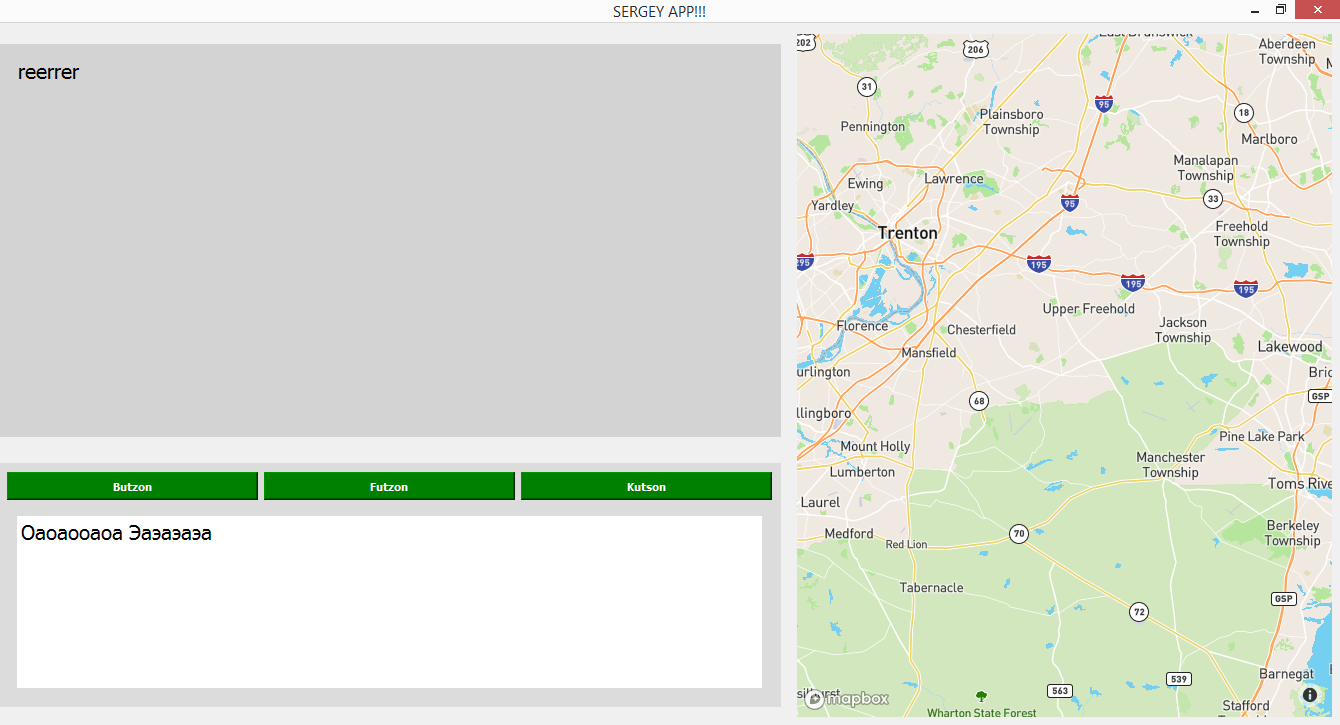
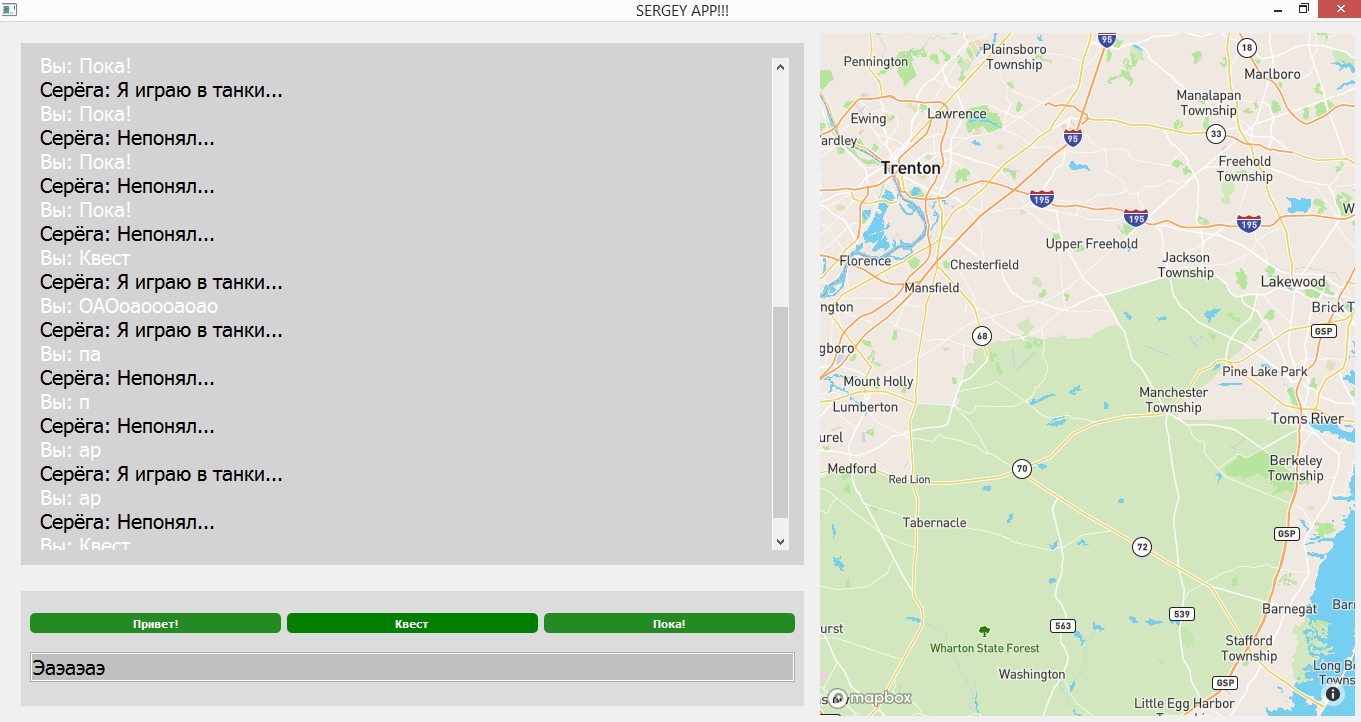
Обновление GUI

diff --git a/src/main.py b/src/main.py
@@ -1,12 +1,14 @@
 # TODO: add app icon
 
-from PyQt5.QtWidgets import QApplication, QWidget, QGridLayout, QHBoxLayout, QPushButton, QLabel, QFrame, QTextEdit, QPlainTextEdit, QSpacerItem
+from PyQt5.QtWidgets import QApplication, QWidget, QGridLayout, QHBoxLayout, QVBoxLayout, QPushButton, QLabel, QFrame, QTextEdit, QPlainTextEdit, QLineEdit, QSpacerItem, QSizePolicy
 from PyQt5.QtWebEngineWidgets import QWebEngineView, QWebEngineSettings
-from PyQt5.QtGui import QIcon
+from PyQt5.QtGui import QIcon, QColor, QTextCursor
 from PyQt5.QtCore import QUrl, QRect, QPoint, QSize, Qt
 #import PyQt5
 import os
-import re
+import random
+import time
+import threading
 #import output
 
 class SergeyBot:
@@ -14,20 +16,31 @@ class SergeyBot:
     ("понимание" ввода пользователя можно было сделать с помощью
     функций, ну да ладна...)"""
     def __init__(self):
+        self.is_answering = False
         self.quest_questions = ("")
         self.greeting_questions = ("привет", "здравствуй")
         self.all_questions = (self.quest_questions)
         self.default_answers = ("Непонял...", "Я играю в танки...")
     
     def answer(self, question : str):
-        for question_type in self.all_questions:
-            pass
-    
+        return random.choice(self.default_answers)
+
+class Chat(QTextEdit):
+    def __init__(self, str, parent=None):
+        super().__init__(str, parent)
+        self.setReadOnly(True)
+
+
 
 class InputButton(QPushButton):
-    def __init__(self, str, parent=None):
-        super().__init__(str, parent=parent)
-        self.clicked.connect(lambda: print(self.text()))
+    def __init__(self, s, parent, mainApp):
+        super().__init__(s, parent=parent)
+        self.s = s
+        self.mainApp = mainApp
+        def clik():
+            self.mainApp.inputbox.setText(self.s)
+            self.mainApp.sendMsg()
+        self.clicked.connect(clik)
 
 
 class SergeyApp(QWidget):
@@ -35,8 +48,37 @@ class SergeyApp(QWidget):
     Тут располагаются все виджеты(кнопки, поля ввода и др.)"""
     def __init__(self):
         super().__init__()
+        self.bot = SergeyBot()
         self.initUI()
     
+    def sendMsg(self):
+        txt = self.inputbox.text()
+        self.inputbox.clear()
+        if txt != "" and not self.bot.is_answering:
+            self.chat.setTextColor(Qt.white)
+            self.chat.append("Вы: " + txt)
+            self.chat.setTextColor(Qt.black)
+            self.chat.insertPlainText("\nСерёга: " + self.bot.answer(txt))
+            """
+            def async_answer():
+                print("START_ASYNC")
+                self.bot.is_answering = True
+                # Анимация
+                for i in range(3):
+                    print("{")
+                    self.chat.insertPlainText(".")
+                    time.sleep(0.5)
+                    print("}")
+                self.bot.is_answering = False
+                print("END_ASYNC")
+            threading.Thread(target=async_answer).start()"""
+            """# Очистить точки от анимации
+            print("Fff")
+            self.chat.setPlainText("")
+            print('fgdfg')
+            self.chat.insertPlainText(self.bot.answer(txt))
+            self.bot.is_answering = False"""
+
     def initUI(self):
         """Функция инициализации всех виджетов
         (вызывать её не надо)"""
@@ -62,22 +104,23 @@ class SergeyApp(QWidget):
         file_path = os.path.abspath(os.path.join(os.path.dirname(__file__), "map2.html"))
         web.load(QUrl.fromLocalFile(file_path))
 
-        frame = QFrame(self)
-        frame.setFrameStyle(QFrame.Box)
+        input_frame = QFrame(self)
+        input_frame.setFrameStyle(QFrame.Box)
 
-        inputgrid = QGridLayout(frame)
+        inputgrid = QGridLayout(input_frame)
         
-        inputButtonTexts = ["Butzon", "Futzon", "Kutson"]
+        inputButtonTexts = ["Привет!", "Квест", "Пока!"]
         buttons = []
         for i in range(len(inputButtonTexts)):
-            buttons.append(InputButton(inputButtonTexts[i], frame))
+            buttons.append(InputButton(inputButtonTexts[i], input_frame, self))
             inputgrid.addWidget(buttons[i], 0, i, 1, 1)
-        self.inputbox = QPlainTextEdit("", frame)
-        inputgrid.addWidget(self.inputbox, 1, 0, 1, len(buttons))
-        self.inputbox.setPlainText("")
+        
+        self.inputbox = QLineEdit(input_frame)
+        self.inputbox.returnPressed.connect(self.sendMsg)
+        inputgrid.addWidget(self.inputbox, 1, 0, 1, -1)
 
-        lbl = QLabel("reerrer", self)
-        lbl.setWordWrap(True)
+        self.chat = Chat("")
+        
         
         # QGridLayout - один из макетных классов, которые помогает управлять
         # положением виджетов. Этот класс управляет положениями виджетов
@@ -95,9 +138,9 @@ class SergeyApp(QWidget):
 
 
         # Добавляем все наши виджеты (кнопки, веб страницы и т.д.)
-        main_layout.addWidget(lbl,   0,  0,   70,   60)
-        main_layout.addWidget(frame, 70, 0,   30,   60)
-        main_layout.addWidget(web,   0,  60,  100,  40)
+        main_layout.addWidget(self.chat,   0, 0,  80, 60)
+        main_layout.addWidget(input_frame,  80, 0,  20, 60)
+        main_layout.addWidget(web,          0, 60,  100, 40)
 
         #self.main_layout.setColumnStretch(0, 2)
         #self.main_layout.setColumnStretch(1, 1)
@@ -123,15 +166,28 @@ if __name__ == "__main__":
             qproperty-alignment: AlignLeft;
             margin: 10px;
         }
-        QPlainTextEdit {
-            background-color: White;
+        Chat {
+            background-color: LightGray;
+            padding: 15px;
+            font-size: 15pt;
+            margin: 10px;
+        }
+        QLineEdit {
+            background-color: Silver;
             font-size: 15pt;
         }
-        QPushButton {
-            background-color: Green;
+        InputButton {
+            background-color: ForestGreen;
             color: White;
             font-weight: Bold;
+            border-radius: 5px;
             min-height: 20px;
+        }
+        QPushButton:hover {
+            background-color: Green;
+        }
+        QPushButton:pressed {
+            background-color: DarkGreen;
         }
         QWebEngineView {
             margin: 10px;
